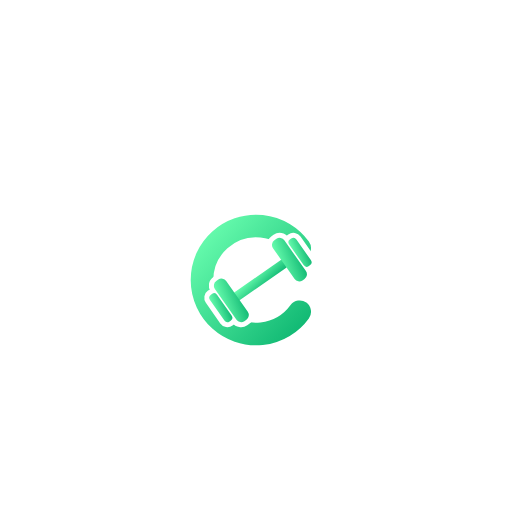
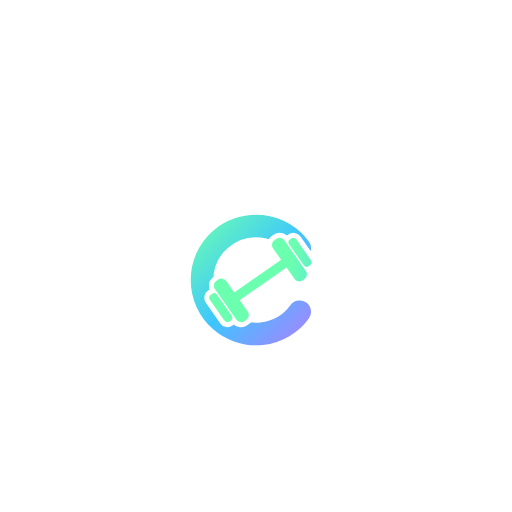
v131: ícone e abertura em preto com símbolo holográfico (opção 10)
Claude-Session: https://claude.ai/code/session_01FhPDBSrnwmyrpujbGWVvSC

Changed region(s): [[0.375, 0.4062, 0.625, 0.6875]]

diff --git a/dist/index.html b/dist/index.html
@@ -662,7 +662,7 @@ html.sp-on{background:#000}
 .sp-mark{width:76px;height:76px;display:block}
 </style>
 
-<!--SPLASH-START--><div id="splash" aria-hidden="true"><svg class="sp-mark" viewBox="0 0 512 512"><defs><linearGradient id="spg" x1="0" y1="0" x2="1" y2="1"><stop offset="0" stop-color="#6BFFB0"/><stop offset="1" stop-color="#10B873"/></linearGradient></defs><path d="M395.2 357.1A172 172 0 1 1 395.2 154.9" fill="none" stroke="url(#spg)" stroke-width="72" stroke-linecap="round"/><g><g fill="#000" stroke="#000" stroke-width="32" stroke-linejoin="round" transform="translate(270 256) rotate(-35)"><rect x="-105" y="-15" width="210" height="30" rx="15"/><rect x="91" y="-78" width="44" height="156" rx="18"/><rect x="-135" y="-78" width="44" height="156" rx="18"/><rect x="140" y="-52" width="28" height="104" rx="12"/><rect x="-168" y="-52" width="28" height="104" rx="12"/></g><g fill="url(#spg)" transform="translate(270 256) rotate(-35)"><rect x="-105" y="-15" width="210" height="30" rx="15"/><rect x="91" y="-78" width="44" height="156" rx="18"/><rect x="-135" y="-78" width="44" height="156" rx="18"/><rect x="140" y="-52" width="28" height="104" rx="12"/><rect x="-168" y="-52" width="28" height="104" rx="12"/></g></g></svg></div><!--SPLASH-END-->
+<!--SPLASH-START--><div id="splash" aria-hidden="true"><svg class="sp-mark" viewBox="0 0 512 512"><defs><linearGradient id="spg" gradientUnits="userSpaceOnUse" x1="60" y1="60" x2="452" y2="452"><stop offset="0.00" stop-color="#6BFFB0"/><stop offset="0.50" stop-color="#3EC5FF"/><stop offset="1.00" stop-color="#B07CFF"/></linearGradient></defs><path d="M395.2 357.1A172 172 0 1 1 395.2 154.9" fill="none" stroke="url(#spg)" stroke-width="72" stroke-linecap="round"/><g><g fill="#000" stroke="#000" stroke-width="32" stroke-linejoin="round" transform="translate(270 256) rotate(-35)"><rect x="-105" y="-15" width="210" height="30" rx="15"/><rect x="91" y="-78" width="44" height="156" rx="18"/><rect x="-135" y="-78" width="44" height="156" rx="18"/><rect x="140" y="-52" width="28" height="104" rx="12"/><rect x="-168" y="-52" width="28" height="104" rx="12"/></g><g fill="url(#spg)" transform="translate(270 256) rotate(-35)"><rect x="-105" y="-15" width="210" height="30" rx="15"/><rect x="91" y="-78" width="44" height="156" rx="18"/><rect x="-135" y="-78" width="44" height="156" rx="18"/><rect x="140" y="-52" width="28" height="104" rx="12"/><rect x="-168" y="-52" width="28" height="104" rx="12"/></g></g></svg></div><!--SPLASH-END-->
 <div id="app"></div>
 <div id="mini"></div>
 <div id="restbar"></div>
@@ -1241,7 +1241,7 @@ function mergeDup(s){const by={};for(const b of BUILTIN)by[norm(b.name)]=b.id;co
 function fixPRs(){if(S._fixPR){delete S._fixPR;recomputePRs();persist()}}
 
 /* ---------- estado ---------- */
-const APP_V='v130'; // trocado pelo build.py pela versão do sw.js (CACHE)
+const APP_V='v131'; // trocado pelo build.py pela versão do sw.js (CACHE)
 const KEY='carga.v1',REG='carga.perfis';
 // Reset geral pedido em 17/10/2026: zera todos os perfis uma vez por aparelho. Os dados antigos são movidos para carga.old.* e podem ser restaurados em Configurações.
 const RESET_ID='2026-10-17';

diff --git a/app.html b/app.html
@@ -648,7 +648,7 @@ html.sp-on{background:#000}
 .sp-mark{width:76px;height:76px;display:block}
 </style>
 
-<!--SPLASH-START--><div id="splash" aria-hidden="true"><svg class="sp-mark" viewBox="0 0 512 512"><defs><linearGradient id="spg" x1="0" y1="0" x2="1" y2="1"><stop offset="0" stop-color="#6BFFB0"/><stop offset="1" stop-color="#10B873"/></linearGradient></defs><path d="M395.2 357.1A172 172 0 1 1 395.2 154.9" fill="none" stroke="url(#spg)" stroke-width="72" stroke-linecap="round"/><g><g fill="#000" stroke="#000" stroke-width="32" stroke-linejoin="round" transform="translate(270 256) rotate(-35)"><rect x="-105" y="-15" width="210" height="30" rx="15"/><rect x="91" y="-78" width="44" height="156" rx="18"/><rect x="-135" y="-78" width="44" height="156" rx="18"/><rect x="140" y="-52" width="28" height="104" rx="12"/><rect x="-168" y="-52" width="28" height="104" rx="12"/></g><g fill="url(#spg)" transform="translate(270 256) rotate(-35)"><rect x="-105" y="-15" width="210" height="30" rx="15"/><rect x="91" y="-78" width="44" height="156" rx="18"/><rect x="-135" y="-78" width="44" height="156" rx="18"/><rect x="140" y="-52" width="28" height="104" rx="12"/><rect x="-168" y="-52" width="28" height="104" rx="12"/></g></g></svg></div><!--SPLASH-END-->
+<!--SPLASH-START--><div id="splash" aria-hidden="true"><svg class="sp-mark" viewBox="0 0 512 512"><defs><linearGradient id="spg" gradientUnits="userSpaceOnUse" x1="60" y1="60" x2="452" y2="452"><stop offset="0.00" stop-color="#6BFFB0"/><stop offset="0.50" stop-color="#3EC5FF"/><stop offset="1.00" stop-color="#B07CFF"/></linearGradient></defs><path d="M395.2 357.1A172 172 0 1 1 395.2 154.9" fill="none" stroke="url(#spg)" stroke-width="72" stroke-linecap="round"/><g><g fill="#000" stroke="#000" stroke-width="32" stroke-linejoin="round" transform="translate(270 256) rotate(-35)"><rect x="-105" y="-15" width="210" height="30" rx="15"/><rect x="91" y="-78" width="44" height="156" rx="18"/><rect x="-135" y="-78" width="44" height="156" rx="18"/><rect x="140" y="-52" width="28" height="104" rx="12"/><rect x="-168" y="-52" width="28" height="104" rx="12"/></g><g fill="url(#spg)" transform="translate(270 256) rotate(-35)"><rect x="-105" y="-15" width="210" height="30" rx="15"/><rect x="91" y="-78" width="44" height="156" rx="18"/><rect x="-135" y="-78" width="44" height="156" rx="18"/><rect x="140" y="-52" width="28" height="104" rx="12"/><rect x="-168" y="-52" width="28" height="104" rx="12"/></g></g></svg></div><!--SPLASH-END-->
 <div id="app"></div>
 <div id="mini"></div>
 <div id="restbar"></div>

diff --git a/dist/sw.js b/dist/sw.js
@@ -1,4 +1,4 @@
-const CACHE='carga-v130';
+const CACHE='carga-v131';
 const SHELL=['./','./index.html','./manifest.webmanifest','./icon.svg','./icon-192.png','./icon-512.png','./icon-maskable-512.png','./icon-180.png'];
 self.addEventListener('install',e=>{e.waitUntil(caches.open(CACHE).then(c=>c.addAll(SHELL)));self.skipWaiting()});
 self.addEventListener('activate',e=>{e.waitUntil(caches.keys().then(ks=>Promise.all(ks.filter(k=>k!==CACHE).map(k=>caches.delete(k)))).then(()=>self.clients.claim()))});

diff --git a/sw.js b/sw.js
@@ -1,4 +1,4 @@
-const CACHE='carga-v130';
+const CACHE='carga-v131';
 const SHELL=['./','./index.html','./manifest.webmanifest','./icon.svg','./icon-192.png','./icon-512.png','./icon-maskable-512.png','./icon-180.png'];
 self.addEventListener('install',e=>{e.waitUntil(caches.open(CACHE).then(c=>c.addAll(SHELL)));self.skipWaiting()});
 self.addEventListener('activate',e=>{e.waitUntil(caches.keys().then(ks=>Promise.all(ks.filter(k=>k!==CACHE).map(k=>caches.delete(k)))).then(()=>self.clients.claim()))});

diff --git a/tools/logo.py b/tools/logo.py
@@ -12,8 +12,15 @@ from fontTools.pens.transformPen import TransformPen
 
 ROOT = os.path.dirname(os.path.dirname(os.path.abspath(__file__)))
 FONT = '/usr/share/fonts/opentype/inter/InterDisplay-BlackItalic.otf'
-G0, G1 = '#6BFFB0', '#10B873'          # degradê da marca (fundo escuro)
-B0, B1 = '#22D481', '#0A7A4E'          # fundo do ícone
+G0, G1 = '#6BFFB0', '#10B873'          # degradê antigo da marca (até a v130)
+HOLO = ['#6BFFB0', '#3EC5FF', '#B07CFF']  # v131: opção 10 "Preto + Holográfico" escolhida pelo usuário
+B0, B1 = '#050505', '#111111'          # fundo do ícone (preto)
+
+
+def grad(gid):
+    """Degradê holográfico da marca (verde → azul → lilás), em coordenadas do desenho 512×512."""
+    st = ''.join('<stop offset="%.2f" stop-color="%s"/>' % (k / (len(HOLO) - 1), c) for k, c in enumerate(HOLO))
+    return '<linearGradient id="%s" gradientUnits="userSpaceOnUse" x1="60" y1="60" x2="452" y2="452">%s</linearGradient>' % (gid, st)
 R, SW, GAP = 172, 72, (36, 324)        # anel do "C"
 CX, CY, ANG = 270, 256, -35            # centro e inclinação do halter
 BAR, BT, PLATES, KO = 210, 30, [(44, 156), (28, 104)], 16
@@ -61,9 +68,9 @@ def word(text='carga', track=-30):
 
 
 def icon(maskable=False, k=None):
-    bg = '<defs><linearGradient id="b" x1="0" y1="0" x2="1" y2="1"><stop offset="0" stop-color="%s"/><stop offset="1" stop-color="%s"/></linearGradient></defs>' % (B0, B1)
+    bg = '<defs><linearGradient id="b" x1="0" y1="0" x2="1" y2="1"><stop offset="0" stop-color="%s"/><stop offset="1" stop-color="%s"/></linearGradient>%s</defs>' % (B0, B1, grad('m'))
     rect = '<rect width="512" height="512" fill="url(#b)"/>' if maskable else '<rect width="512" height="512" rx="112" fill="url(#b)"/>'
-    m = mark('#FFFFFF')
+    m = mark('url(#m)')
     k = k or (.74 if maskable else .9)  # maskable: a marca cabe na zona segura (círculo de 80%)
     m = '<g transform="translate(256 256) scale(%g) translate(-256 -256)">%s</g>' % (k, m)
     return '<svg xmlns="http://www.w3.org/2000/svg" viewBox="0 0 512 512">%s%s%s</svg>' % (bg, rect, m)
@@ -71,17 +78,16 @@ def icon(maskable=False, k=None):
 
 def splash():
     # Como no Hevy: só o símbolo, parado, no centro da tela preta
-    grad = '<defs><linearGradient id="spg" x1="0" y1="0" x2="1" y2="1"><stop offset="0" stop-color="%s"/><stop offset="1" stop-color="%s"/></linearGradient></defs>' % (G0, G1)
-    return '<div id="splash" aria-hidden="true"><svg class="sp-mark" viewBox="0 0 512 512">%s%s</svg></div>' % (grad, mark('url(#spg)', '#000'))
+    return '<div id="splash" aria-hidden="true"><svg class="sp-mark" viewBox="0 0 512 512"><defs>%s</defs>%s</svg></div>' % (grad('spg'), mark('url(#spg)', '#000'))
 
 
 def lockup():
     """Marca + palavra (arquivo de identidade, para uso fora do app)."""
     wd, ww = word(); k = 300 / 1640
-    grad = '<defs><linearGradient id="g" x1="0" y1="0" x2="1" y2="1"><stop offset="0" stop-color="%s"/><stop offset="1" stop-color="%s"/></linearGradient></defs>' % (G0, G1)
+    gd = '<defs>%s</defs>' % grad('g')
     return ('<svg xmlns="http://www.w3.org/2000/svg" viewBox="0 0 %d 860"><rect width="100%%" height="100%%" fill="#000"/>%s'
             '<g transform="translate(%g 60)">%s</g><path fill="#fff" transform="translate(40 %g) scale(%g)" d="%s"/></svg>') % (
-        ww * k + 80, grad, (ww * k + 80) / 2 - 256, mark('url(#g)', '#000'), 600 + 1180 * k, k, wd)
+        ww * k + 80, gd, (ww * k + 80) / 2 - 256, mark('url(#g)', '#000'), 600 + 1180 * k, k, wd)
 
 
 def icon_any(k=.314, dy=24):
@@ -89,8 +95,7 @@ def icon_any(k=.314, dy=24):
     do app instalado (sobre o fundo preto do manifesto); na escala .28 ele aparece do mesmo tamanho do símbolo da
     nossa abertura (medido no vídeo do celular), então a passagem para a página não tem salto. dy compensa o centro da
     página, que fica um pouco abaixo do centro da janela. O ícone da tela inicial vem do maskable."""
-    grad = '<defs><linearGradient id="g" x1="0" y1="0" x2="1" y2="1"><stop offset="0" stop-color="%s"/><stop offset="1" stop-color="%s"/></linearGradient></defs>' % (G0, G1)
-    return '<svg xmlns="http://www.w3.org/2000/svg" viewBox="0 0 512 512">%s<g transform="translate(256 %g) scale(%g) translate(-256 -256)">%s</g></svg>' % (grad, 256 + dy, k, mark('url(#g)'))
+    return '<svg xmlns="http://www.w3.org/2000/svg" viewBox="0 0 512 512"><defs>%s</defs><g transform="translate(256 %g) scale(%g) translate(-256 -256)">%s</g></svg>' % (grad('g'), 256 + dy, k, mark('url(#g)'))
 
 
 def main():

diff --git a/.claude/skills/carga-app/references/identidade-visual.md b/.claude/skills/carga-app/references/identidade-visual.md
@@ -99,3 +99,9 @@ Cada cor tem uma variante para tema claro e outra para tema escuro: `[cor, cor s
 - Início em capítulos (v66, aprovado pelo usuário): **Meu dia** (`homeMyDay`, 1º bloco desde a v81: meta, consumido, gasto, saldo, macros, água, "Como calculamos?", e no fim Treino e Metas de longo prazo; o bloco Metas de hoje foi removido) → **Meu gasto** (`homeSpend`: anéis das calorias ativas + barra basal/rotina/treino/exercícios = gasto do dia) → **Métricas de saúde** (v85, `healthCore`: IMC, TMB, Gasto e meta de hoje, Água por dia, Macronutrientes) → **Explorar** (atalhos). Cada número aparece uma vez só. Vocabulário único: Meta (quanto comer), Gasto (total do dia), Ativas (treino + exercícios), Saldo (comido − gasto). Semáforo: em andamento (cor padrão), dentro da meta (verde #2E9E5B), um pouco acima (âmbar), bem acima (vermelho).
 - Aba Treino: primeiro bloco é **Seus treinos** (últimos 10 + "Ver todos" no Perfil), depois Iniciar treino vazio / Retomar e Rotinas.
 
+
+## Cores do ícone (v131, 07/11/2026)
+- **Escolhida pelo usuário: opção 10, "Preto + Holográfico".** Fundo preto (#050505 → #111111) e símbolo em degradê verde → azul → lilás (#6BFFB0, #3EC5FF, #B07CFF). Vale para o ícone da tela inicial, o ícone "any", a abertura, a tela de login e o lockup.
+- **Origem:** `HOLO` e `grad()` em `tools/logo.py`. Para gerar de novo: `python3 tools/logo.py`, depois `node tools/icons.js`.
+- **As outras 9 opções** apresentadas: Preto + Verde neon, Preto + Lima elétrico, Grafite + Laranja, Meia-noite + Ciano, Branco + Verde, Aurora (roxo → azul), Preto + Dourado, Floresta + Creme e Coral esportivo. Os SVGs estão em `tools/icone-opcoes/`.
+- **Trocar o ícone dentro do app não é possível num PWA.** O sistema guarda o ícone na instalação. No iPhone, ele lê o `apple-touch-icon` no momento de "Adicionar à Tela de Início". No Android, ele vem do manifesto, que é um só para todos.

diff --git a/.claude/skills/carga-app/references/funcionalidades.md b/.claude/skills/carga-app/references/funcionalidades.md
@@ -233,3 +233,4 @@
 - v128 — Remada Sentada Pegada Aberta (Cabo) usa a mesma arte da Remada Sentada com Barra (Cabo). 52 artes.
 - v129 — Correção do iPhone: barras fixas (abas, descanso do treino, botões fixos) não pulam mais na rolagem. A rolagem passou da página para o #app (html/body sem rolagem), SC() no JS, sticky com top:0.
 - v130 — Acompanhamento de remédios e suplementos (VIEWS.remPainel): cada horário de lembrete é uma dose; botão Tomei grava em S.remLog[dia][idLembrete][HH:MM]. Cartão "Remédios e suplementos de hoje" no topo do Início (doses atrasadas em vermelho, tomadas em verde, contador N de M). Painel: filtro por lembrete, adesão 7/30 dias, sequência de dias completos, calendário do mês (verde tudo, amarelo parte, vermelho esquecido), detalhe do dia com marcação retroativa. O Tomei da notificação (sino) grava no mesmo registro (inbox guarda slot) e vice-versa. Atalhos em Lembretes e Notificações.
+- v131 — Ícone e abertura na opção 10 (Preto + Holográfico). As 10 opções ficam em tools/icone-opcoes/.
